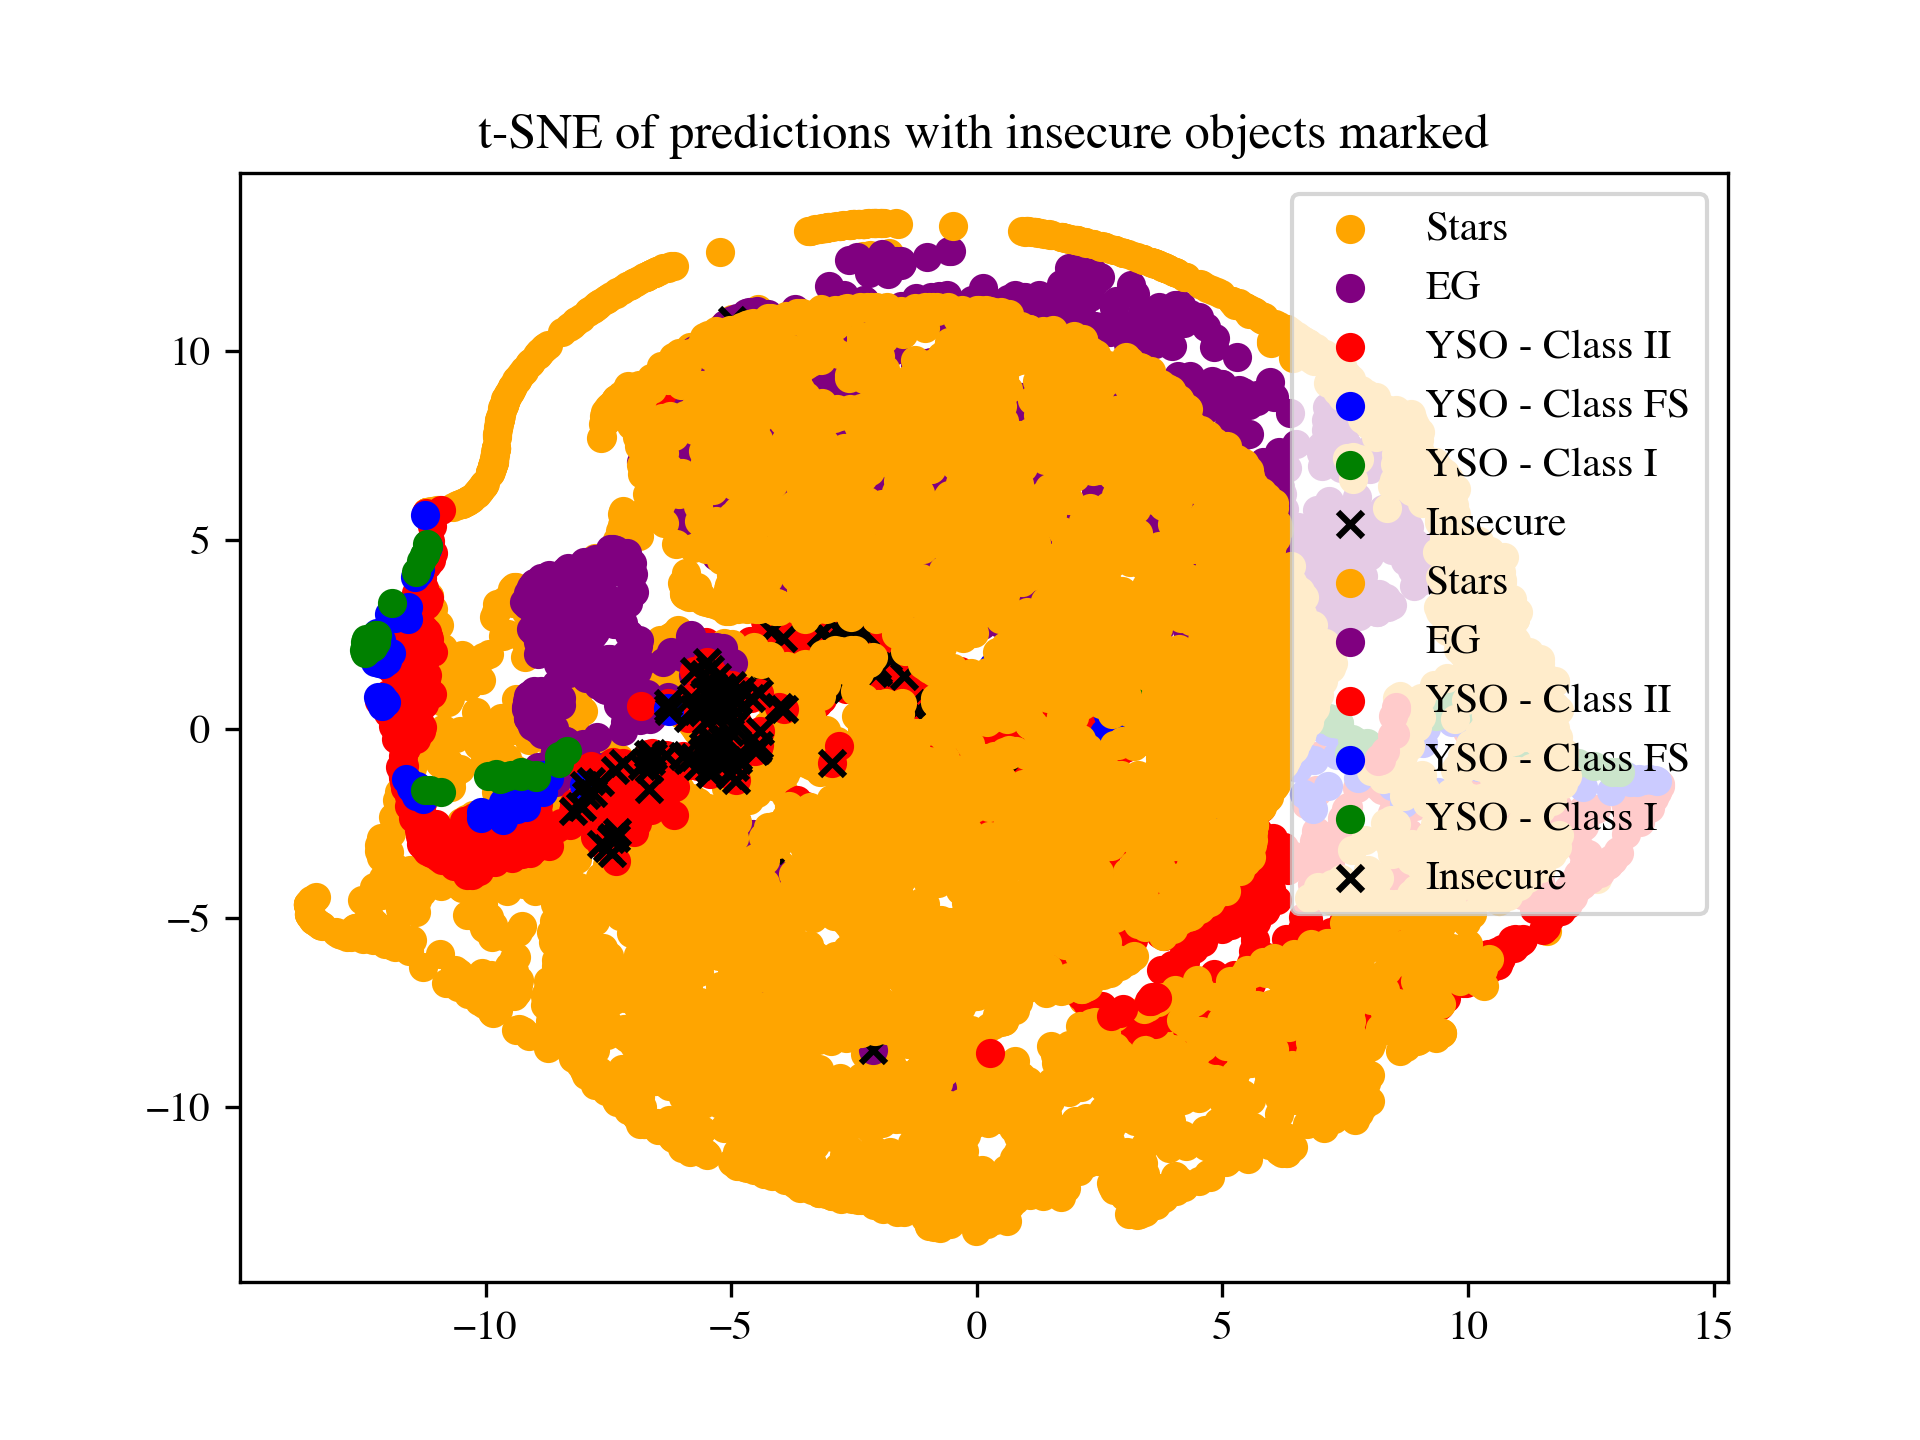
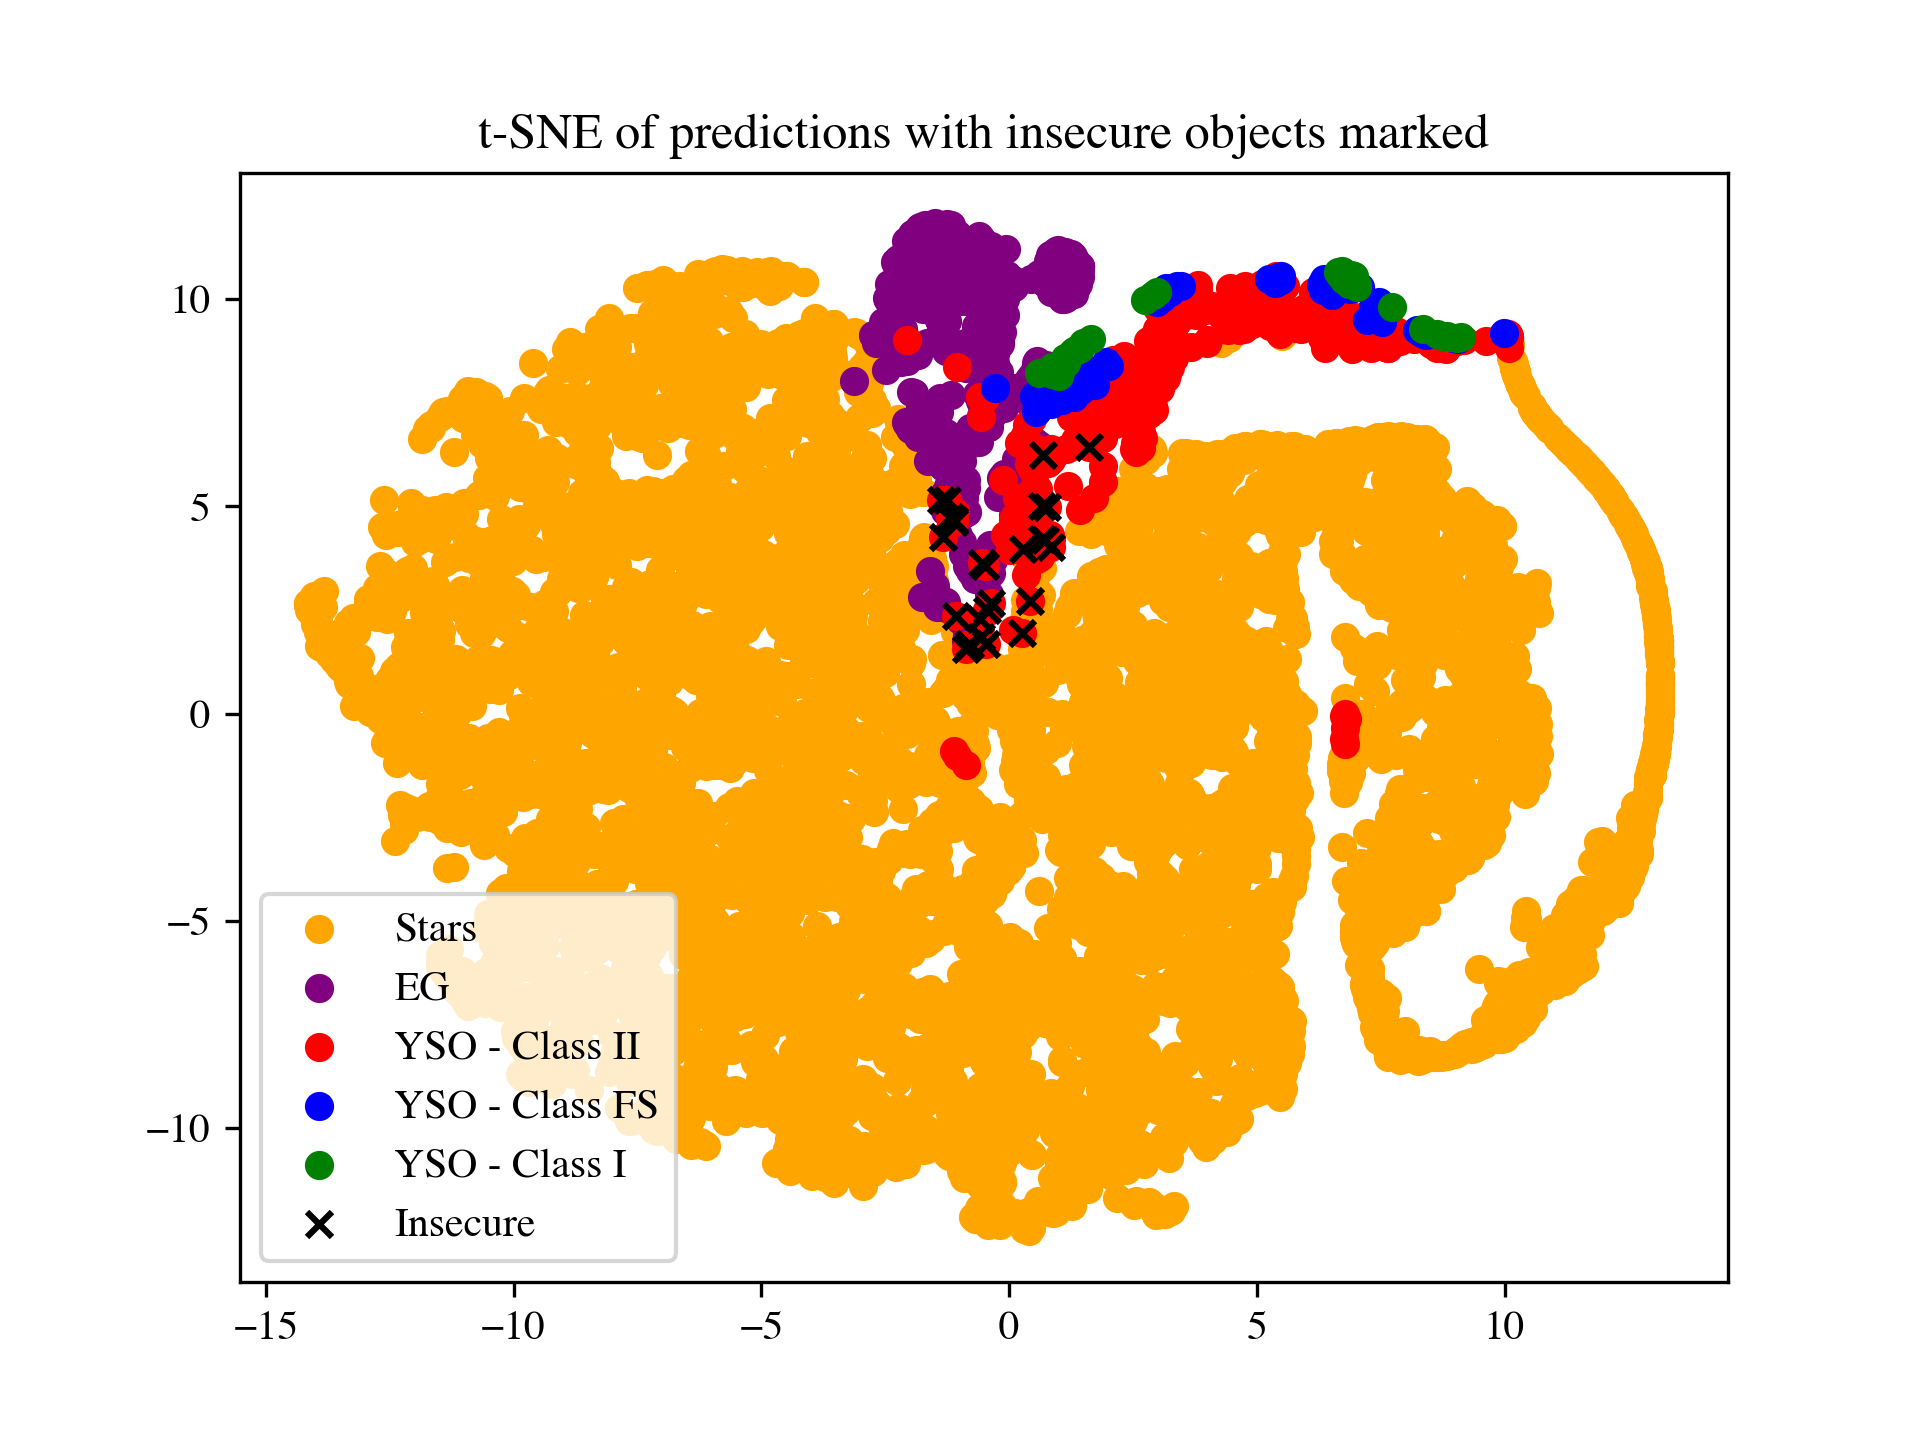
Fix MLP from YSO to give best predictions

diff --git a/Phase_3__SPITZER_Classification/Scripts/FullScript.py b/Phase_3__SPITZER_Classification/Scripts/FullScript.py
@@ -2,6 +2,7 @@ import numpy as np
 import matplotlib.pyplot as plt
 
 from sklearn.metrics import classification_report
+from sklearn.ensemble import RandomForestClassifier
 from sklearn.manifold import TSNE
 
 import torch
@@ -50,77 +51,89 @@ NN_IR.load_state_dict(torch.load("../MLP_Settings/IRAC_TwoLayer_LR_0.001_MO_0.9_
 MLP_preds_tr = test(NN_IR, IR_train, device)
 MLP_preds_te = test(NN_IR, IR_test, device)
 
+#IRAC CM
+rfcl = RandomForestClassifier(class_weight='balanced',criterion='entropy',max_features='log2',n_estimators=50,oob_score=False)
+rfcl.fit(inp_TR,tar_tr.ravel())
+RF_preds_tr = rfcl.predict(inp_TR)
+RF_preds_te = rfcl.predict(inp_TE)
+
 # # Change preds to match up with new scheme
 preproc_yso(inp_tr[:,-1],MLP_preds_tr)
 preproc_yso(inp_te[:,-1],MLP_preds_te)
+
+preproc_yso(inp_tr[:,-1],RF_preds_tr)
+preproc_yso(inp_te[:,-1],RF_preds_te)
 
 preproc_yso(inp_tr[:,-1],tar_tr)
 preproc_yso(inp_te[:,-1],tar_te)
 
 # Classify into YSO types
-def to_loader(inp,tar):
-    inp = torch.as_tensor(inp)
-    tar = torch.as_tensor(tar)
+X_tr = np.load("../Data/c2d_YSO_INP.npy") # Load input data
+Y_tr = np.load("../Data/c2d_YSO_TAR.npy") # Load target data
+X_tr = np.float32(X_tr)
+Y_tr = np.float32(Y_tr)
+inp_tr_YSO, tar_tr_YSO = replicate_data_single(X_tr, Y_tr, [len(np.where(Y_tr==0.)[0])]*5)
+inp_tr_YSO = np.delete(inp_tr_YSO,np.s_[8:10],axis=1)
+YSO_forscale, YSO_train, YSO_test = MLP_data_setup(inp_tr_YSO, tar_tr_YSO,inp_TR, tar_tr, inp_TE, tar_te)
 
-    # pass tensors into TensorDataset instances
-    tensor_data = data_utils.TensorDataset(inp, tar)
-
-    # constructing data loaders
-    loader = torch.utils.data.DataLoader(tensor_data, batch_size=32, shuffle=False)
-    return loader
-
-YSO_loader_tr = to_loader(inp_TR,tar_tr)
-YSO_loader_te = to_loader(inp_TE,tar_te)
 YSO_NN = BaseMLP(9, 20, 5)
 YSO_NN.load_state_dict(torch.load("../MLP_Settings/IRAC_YSO_OneLayer_LR_0.1_MO_0.9_NEUR_20_Settings", map_location=device))
 
-YSO_preds_tr = test(YSO_NN, YSO_loader_tr, device)
-YSO_preds_te = test(YSO_NN, YSO_loader_te, device)
+YSO_preds_tr = test(YSO_NN, YSO_train, device)
+YSO_preds_te = test(YSO_NN, YSO_test, device)
 
-def flag_YSO(pred1,pred2):
+def flag_YSO(pred1,pred2,pred3):
     flag = []
-    for i, p2 in enumerate(pred2):
-        if pred1[i]==p2:
+    for i, p3 in enumerate(pred3):
+        if pred1[i]==pred2[i]:
             flag.append(0)
-        else:
+        elif pred1[i]==p3:
             flag.append(1)
+        elif pred2[i]==p3:
+            flag.append(2)
+        else:
+            flag.append(3)
     return flag
 
-flags_YSO_tr = np.array(flag_YSO(MLP_preds_tr,YSO_preds_tr))
-flags_YSO_te = np.array(flag_YSO(MLP_preds_te,YSO_preds_te))
-
-pred_tr = np.array(MLP_preds_tr)
-# for i, flag in enumerate(flags_YSO_tr):
-#     if flag == 0:
-#         pred_tr.append(MLP_preds_tr[i])
-#     elif flag == 1:
-#         pred_tr.append(MLP_preds_tr[i])
-#     elif flag == 2:
-#         pred_tr.append(RF_preds_tr[i])
-#     elif flag == 3:
-#         pred_tr.append(MLP_preds_tr[i])
-
-pred_te = np.array(MLP_preds_te)
-# for i, flag in enumerate(flags_YSO_te):
-#     if flag == 0:
-#         pred_te.append(MLP_preds_te[i])
-#     elif flag == 1:
-#         pred_te.append(MLP_preds_te[i])
-#     elif flag == 2:
-#         pred_te.append(RF_preds_te[i])
-#     elif flag == 3:
-#         pred_te.append(MLP_preds_te[i])
+flags_YSO_tr = np.array(flag_YSO(MLP_preds_tr,RF_preds_tr,YSO_preds_tr))
+flags_YSO_te = np.array(flag_YSO(MLP_preds_te,RF_preds_te,YSO_preds_te))
+pred_tr = []
+for i, flag in enumerate(flags_YSO_tr):
+    if flag == 0:
+        pred_tr.append(MLP_preds_tr[i])
+    elif flag == 1:
+        pred_tr.append(MLP_preds_tr[i])
+    elif flag == 2:
+        pred_tr.append(RF_preds_tr[i])
+    elif flag == 3:
+        pred_tr.append(MLP_preds_tr[i])
+pred_tr = np.array(pred_tr)
+pred_te = []
+for i, flag in enumerate(flags_YSO_te):
+    if flag == 0:
+        pred_te.append(MLP_preds_te[i])
+    elif flag == 1:
+        pred_te.append(MLP_preds_te[i])
+    elif flag == 2:
+        pred_te.append(RF_preds_te[i])
+    elif flag == 3:
+        pred_te.append(MLP_preds_te[i])
+pred_te = np.array(pred_te)
 
 
 YSE_labels = ["YSO","EG","Stars"]
 YSO_labels = ["YSO - Class I","YSO - Class FS","YSO - Class II","EG","Stars"]
 
 with open("../Results/"+outfile,"w") as f:
-    f.write("MLP on YSE Results \n Training data (c2d Survey)\n")
+    f.write("MLP Results \n Training data (c2d Survey)\n")
     f.write(classification_report(tar_tr,MLP_preds_tr,target_names=YSO_labels))
     f.write("Testing data (NGC 2264)\n")
     f.write(classification_report(tar_te,MLP_preds_te,target_names=YSO_labels))
-    f.write("\nMLP on YSO Results\n Training data (c2d Survey)\n")
+    f.write("\nCM Results\n Training data (c2d Survey)\n")
+    f.write(classification_report(tar_tr,RF_preds_tr,target_names=YSO_labels))
+    f.write("Testing data (NGC 2264)\n")
+    f.write(classification_report(tar_te,RF_preds_te,target_names=YSO_labels))
+    f.write("\nCM Results\n Training data (c2d Survey)\n")
     f.write(classification_report(tar_tr,YSO_preds_tr,target_names=YSO_labels))
     f.write("Testing data (NGC 2264)\n")
     f.write(classification_report(tar_te,YSO_preds_te,target_names=YSO_labels))
@@ -151,7 +164,8 @@ def tsne_plot(inp,pred,flag,type):
     plt.scatter(Y[np.where(pred==0)[0], 0], Y[np.where(pred==0)[0], 1], c="g",label='YSO - Class I')
     plt.scatter(Y[np.where(flag==3)[0], 0], Y[np.where(flag==3)[0], 1], c="k",marker='x',label='Insecure')
     plt.legend()
-    plt.savefig(f"../Results/t-SNE_final_{type}.png",dpi=300)
+    plt.savefig(f"../Results/Figures/t-SNE_final_{type}.png",dpi=300)
+    plt.close()
 
 tsne_plot(inp_TR,pred_tr,flags_YSO_tr,"c2d")
 tsne_plot(inp_TE,pred_te,flags_YSO_te,"NGC 2264")
